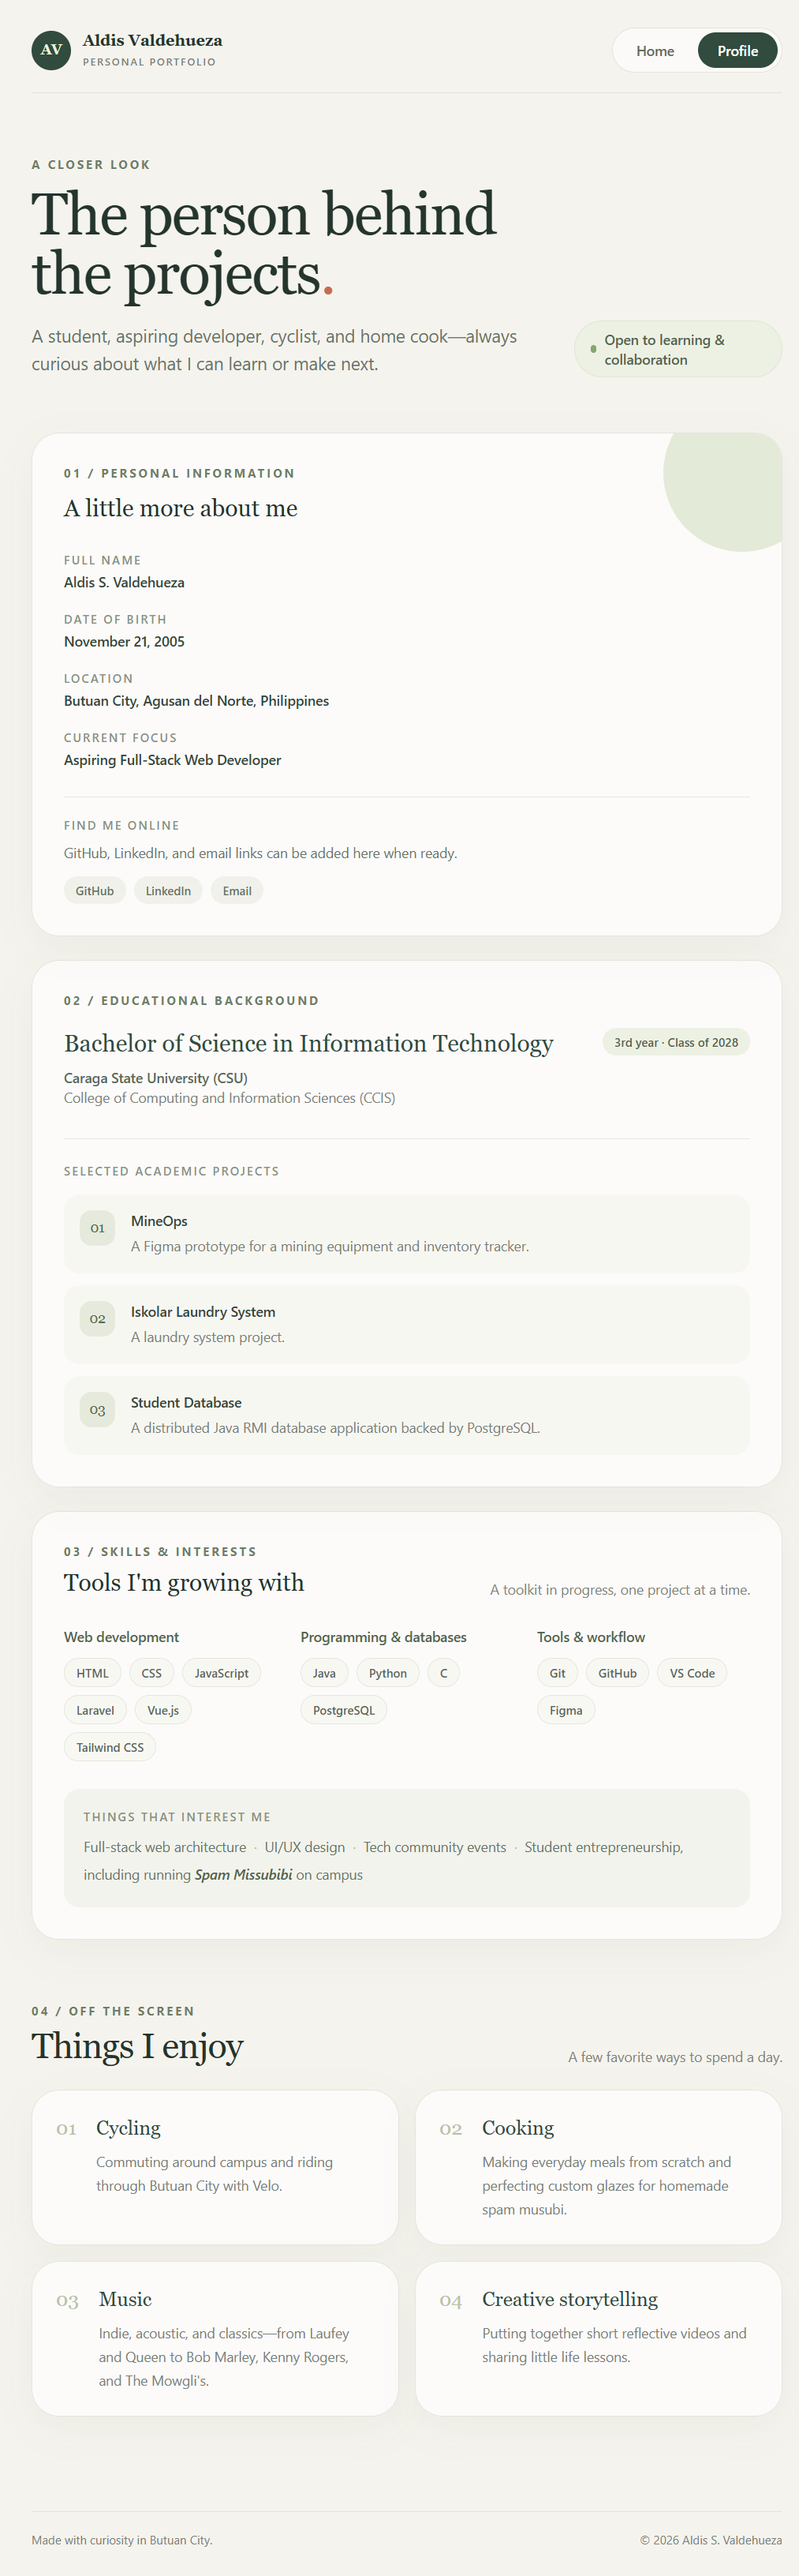
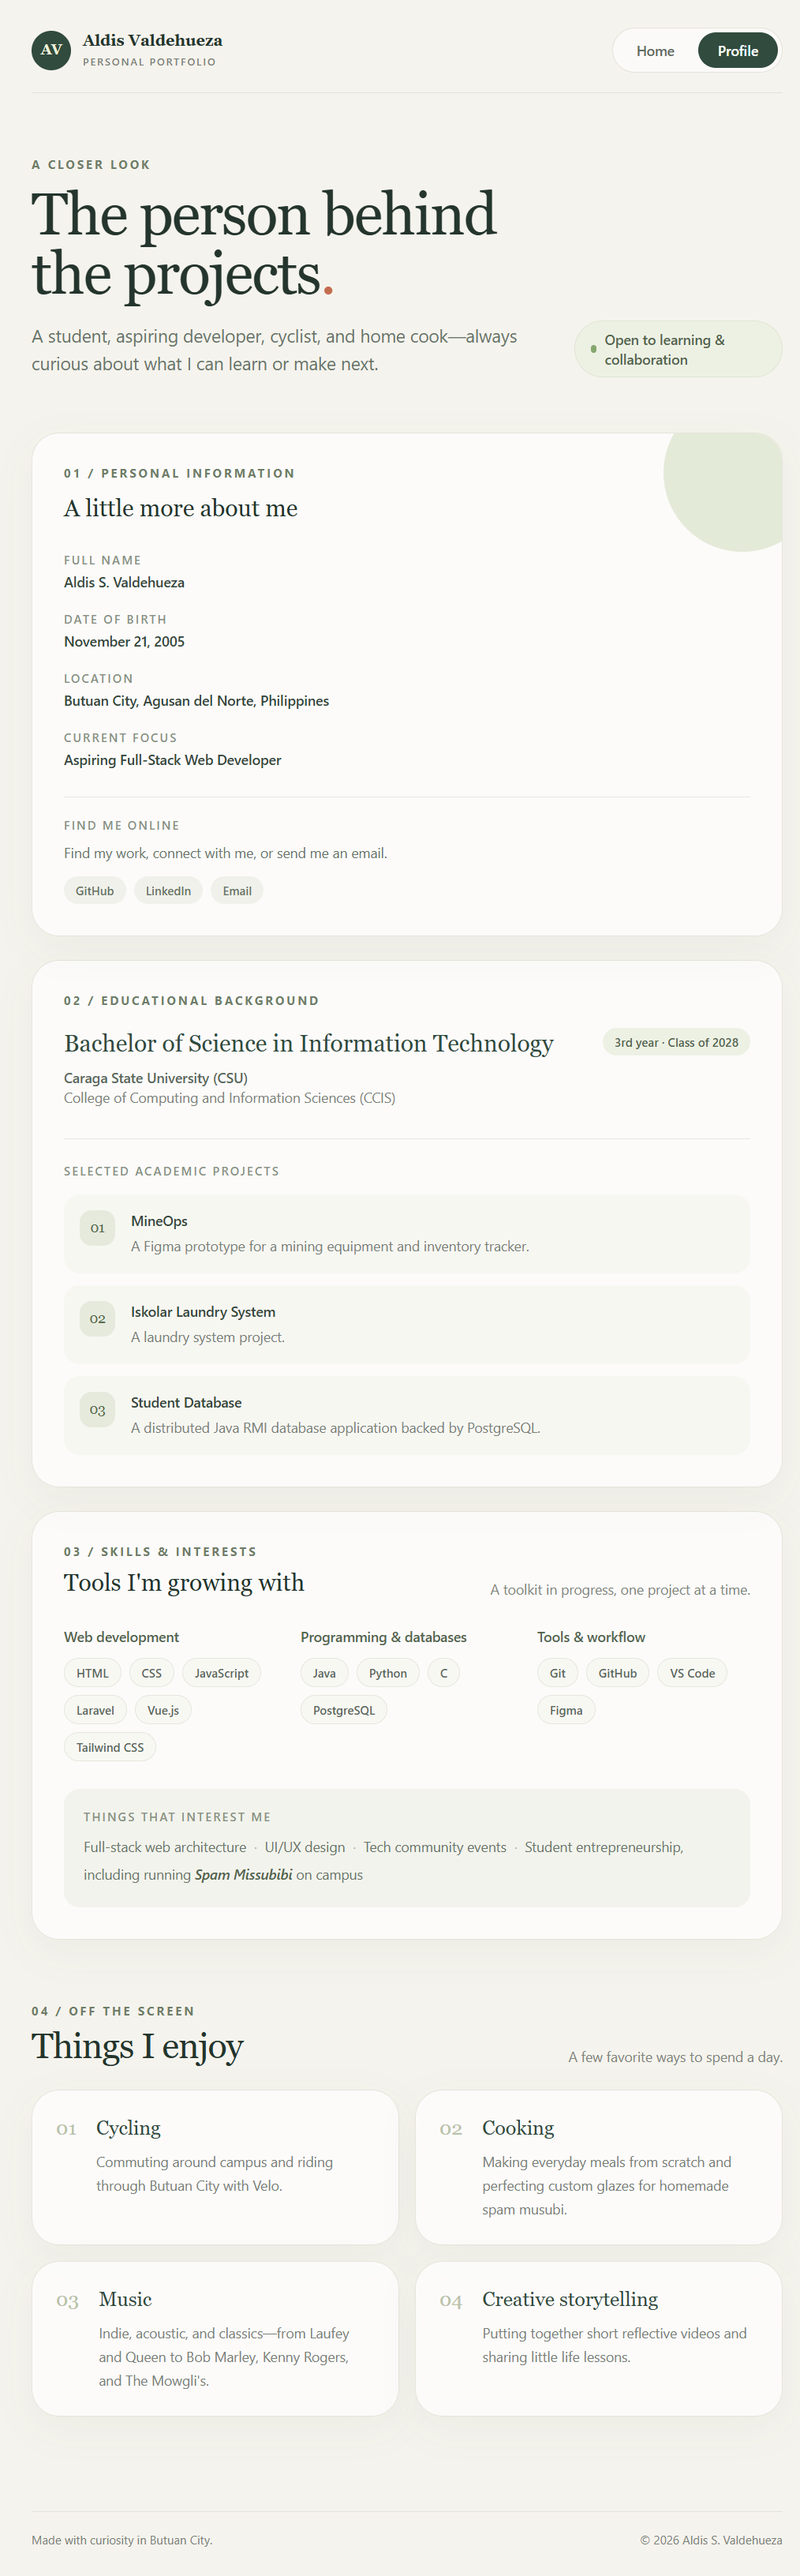
Updated feature: clickable GitHub &  LinkedIn

diff --git a/app/pages/profile.vue b/app/pages/profile.vue
@@ -68,11 +68,11 @@ const hobbies = [
           </dl>
           <div class="mt-7 border-t border-[#e8e8df] pt-5">
             <p class="text-xs font-semibold uppercase tracking-[0.14em] text-[#879082]">Find me online</p>
-            <p class="mt-2 text-sm leading-6 text-[#68746a]">GitHub, LinkedIn, and email links can be added here when ready.</p>
+            <p class="mt-2 text-sm leading-6 text-[#68746a]">Find my work, connect with me, or send me an email.</p>
             <div class="mt-3 flex flex-wrap gap-2">
-              <span class="rounded-full bg-[#f0f1eb] px-3 py-1.5 text-xs font-medium text-[#677265]">GitHub</span>
-              <span class="rounded-full bg-[#f0f1eb] px-3 py-1.5 text-xs font-medium text-[#677265]">LinkedIn</span>
-              <span class="rounded-full bg-[#f0f1eb] px-3 py-1.5 text-xs font-medium text-[#677265]">Email</span>
+              <a href="https://github.com/notaldis" target="_blank" rel="noopener noreferrer" class="rounded-full bg-[#f0f1eb] px-3 py-1.5 text-xs font-medium text-[#677265] transition hover:bg-[#e6eadc]">GitHub</a>
+              <a href="https://www.linkedin.com/in/aldis-valdehueza-23183133a/" target="_blank" rel="noopener noreferrer" class="rounded-full bg-[#f0f1eb] px-3 py-1.5 text-xs font-medium text-[#677265] transition hover:bg-[#e6eadc]">LinkedIn</a>
+              <a href="mailto:aldisvaldehueza@gmail.com" class="rounded-full bg-[#f0f1eb] px-3 py-1.5 text-xs font-medium text-[#677265] transition hover:bg-[#e6eadc]">Email</a>
             </div>
           </div>
         </div>
